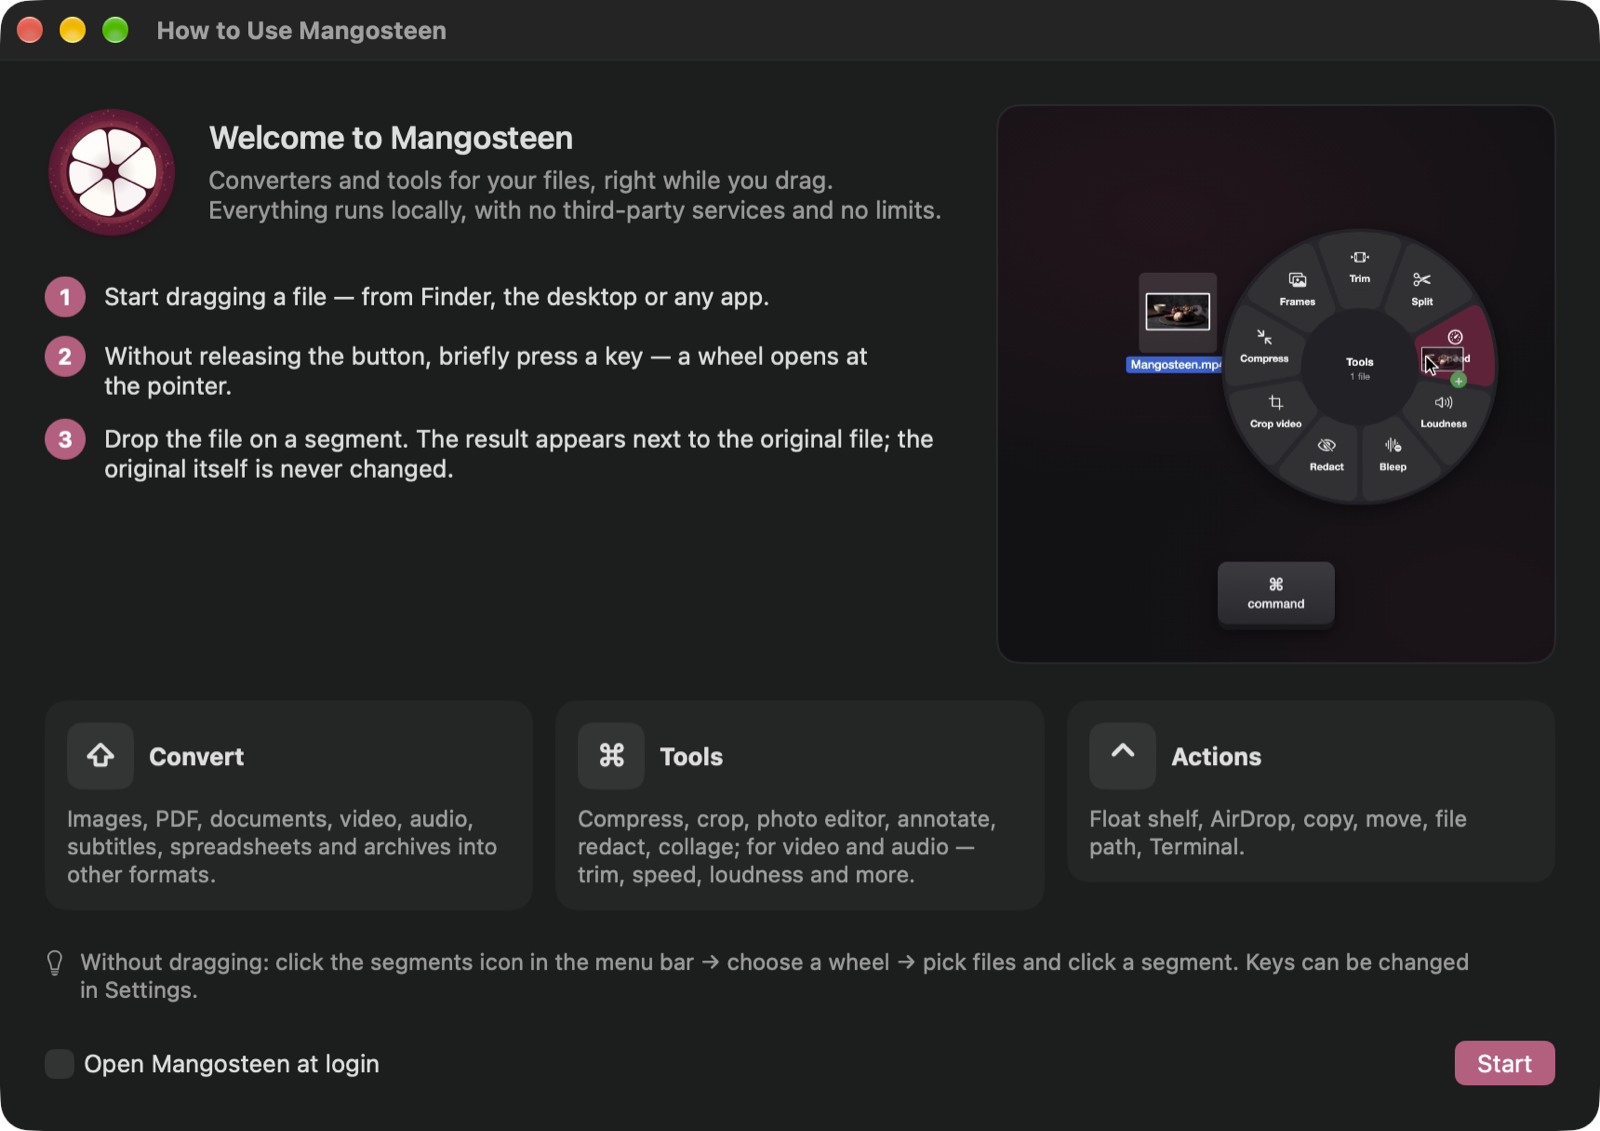
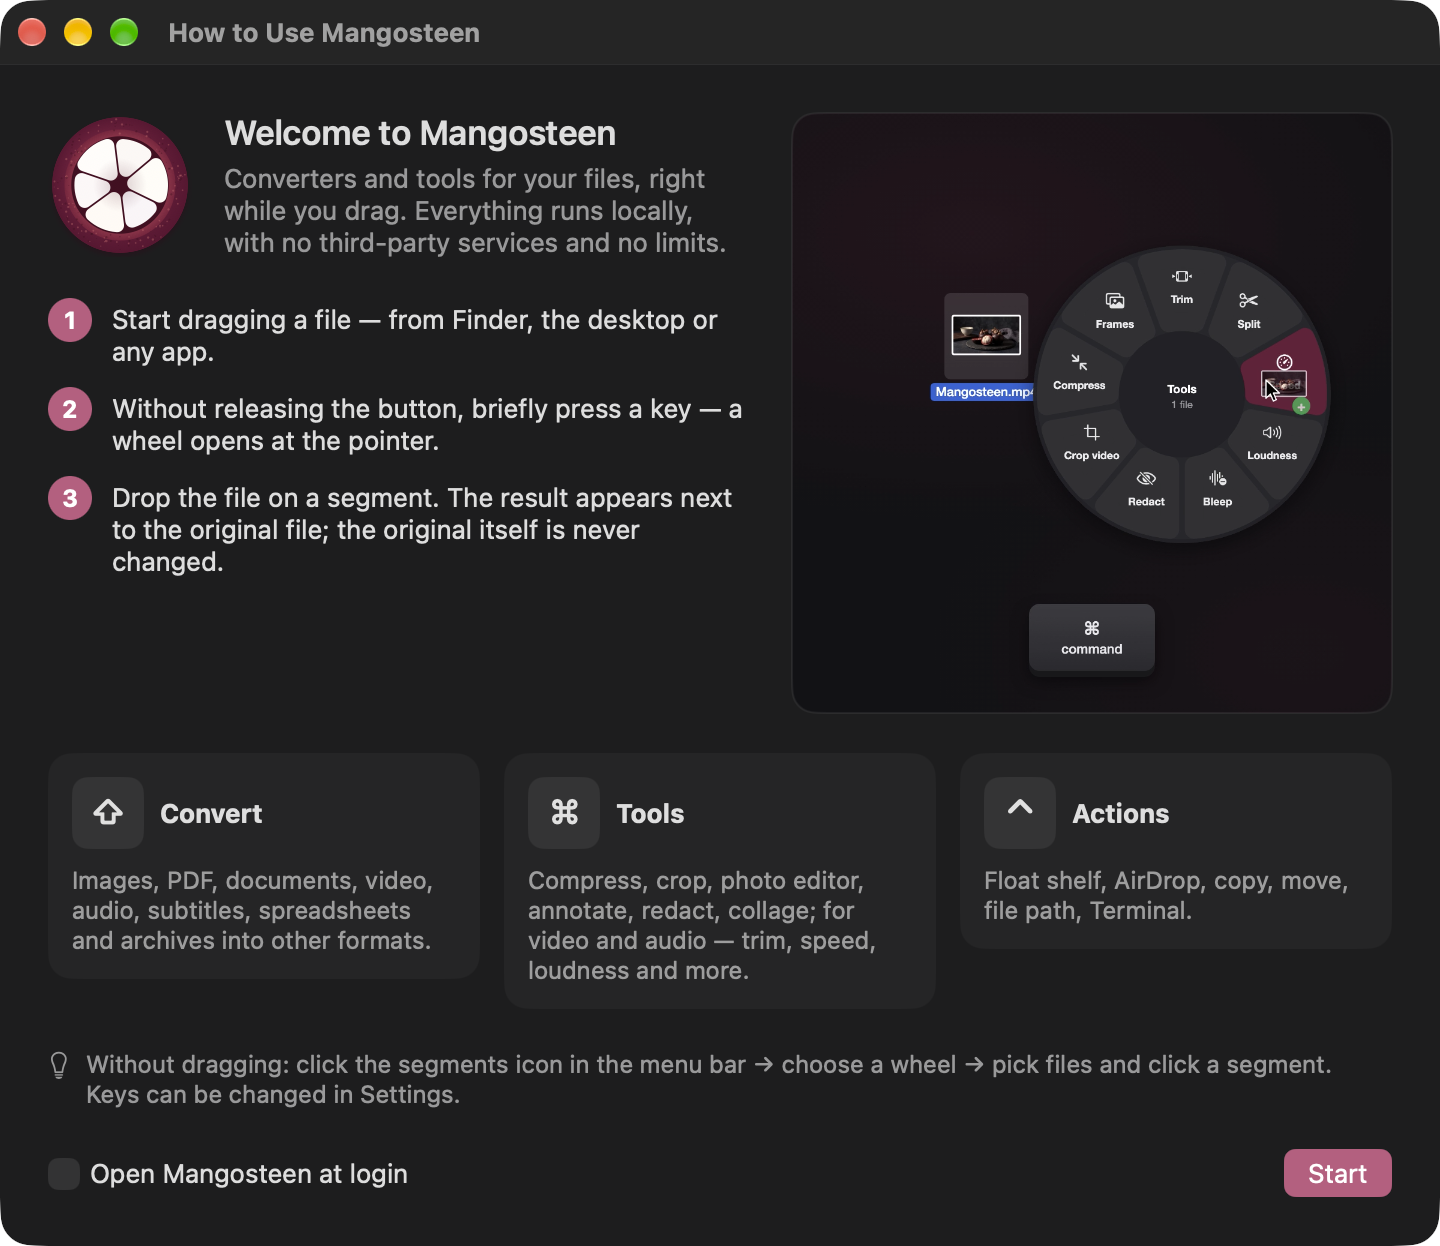
fix(welcome): 720 pt wide so the text column matches the square video; title wraps

diff --git a/Mangosteen/Tools/WelcomeView.swift b/Mangosteen/Tools/WelcomeView.swift
@@ -27,7 +27,7 @@ struct WelcomeView: View {
             footer
         }
         .padding(24)
-        .frame(width: 860)
+        .frame(width: 720)
         .onAppear { UserDefaults.standard.set(true, forKey: Self.shownKey) }
     }
 
@@ -37,7 +37,9 @@ struct WelcomeView: View {
                 .resizable()
                 .frame(width: 72, height: 72)
             VStack(alignment: .leading, spacing: 4) {
-                Text(String(localized: "Добро пожаловать в Mangosteen")).font(.title2.weight(.semibold))
+                Text(String(localized: "Добро пожаловать в Mangosteen"))
+                    .font(.title2.weight(.semibold))
+                    .fixedSize(horizontal: false, vertical: true)
                 Text(String(localized: "Конвертация и инструменты для файлов прямо во время перетаскивания. Всё работает локально, без сторонних сервисов, без ограничений."))
                     .foregroundStyle(.secondary)
                     .fixedSize(horizontal: false, vertical: true)

diff --git a/README.ru.md b/README.ru.md
@@ -135,7 +135,7 @@ Mangosteen живёт в строке меню и ждёт, когда вы чт
 ## Первый запуск
 
 <p align="center">
-  <img src="docs/images/ru/welcome.png" width="860" alt="Окно приветствия">
+  <img src="docs/images/ru/welcome.png" width="720" alt="Окно приветствия">
 </p>
 
 Окно приветствия объясняет три колеса и показывает демо-ролик. Его всегда можно открыть снова из меню значка.

diff --git a/README.md b/README.md
@@ -135,7 +135,7 @@ Every tool opens a small window with a live preview. Close it and nothing is cha
 ## First launch
 
 <p align="center">
-  <img src="docs/images/en/welcome.png" width="860" alt="Welcome window">
+  <img src="docs/images/en/welcome.png" width="720" alt="Welcome window">
 </p>
 
 The welcome window explains the three wheels and plays the demo animation. You can reopen it any time from the menu bar icon.
